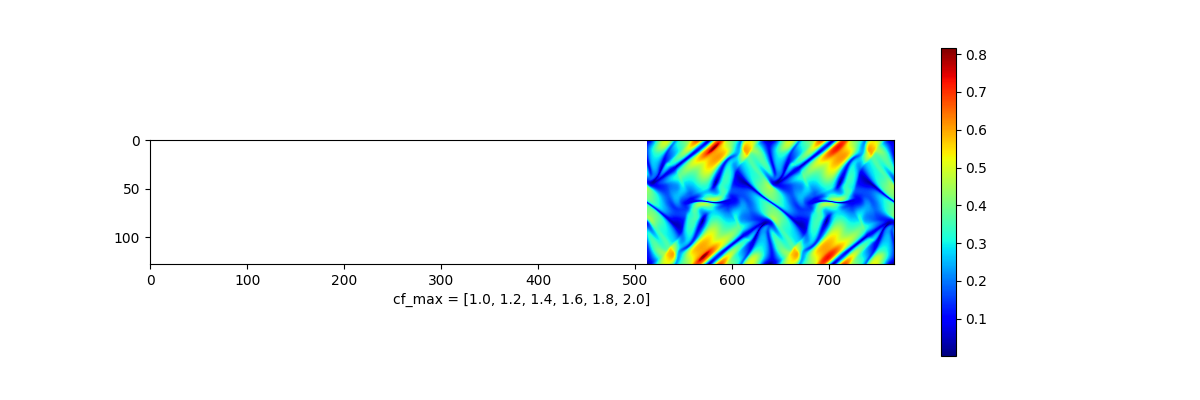
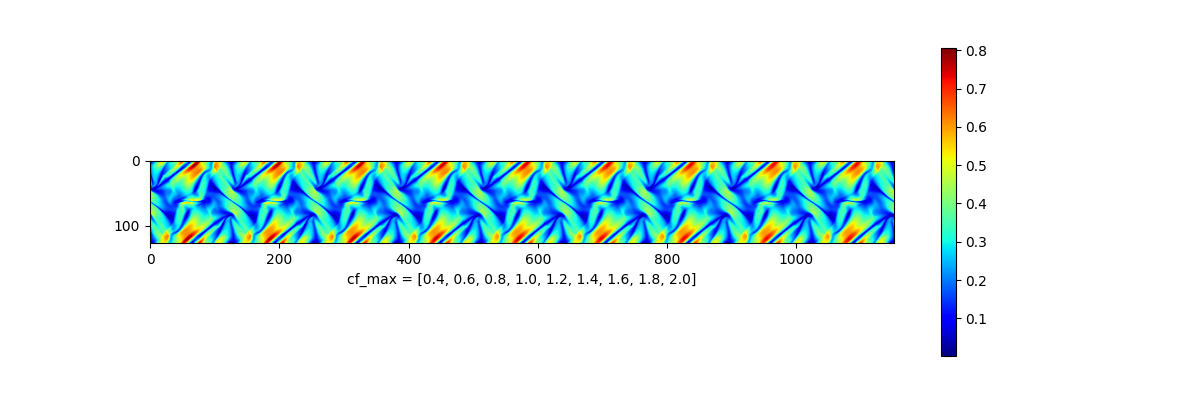
lets try not multiplying flux by alphaSq

diff --git a/mhd-boris.py b/mhd-boris.py
@@ -279,8 +279,9 @@ def getFlux(rho_L, rho_R, vx_L, vx_R, vy_L, vy_R, P_L, P_R, Bx_L, Bx_R, By_L, By
   alpha_R = np.minimum(1.0, max_cf / cf_R)
   alpha = np.minimum(alpha_L, alpha_R)
   alphaSq = alpha ** 2
-  flux_Momx *= alphaSq
-  flux_Momy *= alphaSq
+  # Try 1
+  #flux_Momx *= alphaSq
+  #flux_Momy *= alphaSq
   cf_L *= alpha_L
   cf_R *= alpha_R
 

diff --git a/analysis.py b/analysis.py
@@ -7,7 +7,7 @@ import matplotlib.pyplot as plt
 
 def main():
 
-  max_cfs = [1.0, 1.2, 1.4, 1.6, 1.8, 2.0]
+  max_cfs = [0.4, 0.6, 0.8, 1.0, 1.2, 1.4, 1.6, 1.8, 2.0]
 
   rho = {}
   P_B = {}

diff --git a/README.md b/README.md
@@ -19,6 +19,9 @@ python mhd-boris.py 1.6
 python mhd-boris.py 1.4
 python mhd-boris.py 1.2
 python mhd-boris.py 1.0
+python mhd-boris.py 0.8
+python mhd-boris.py 0.6
+python mhd-boris.py 0.4
 ```
 
 And then analyze with:
